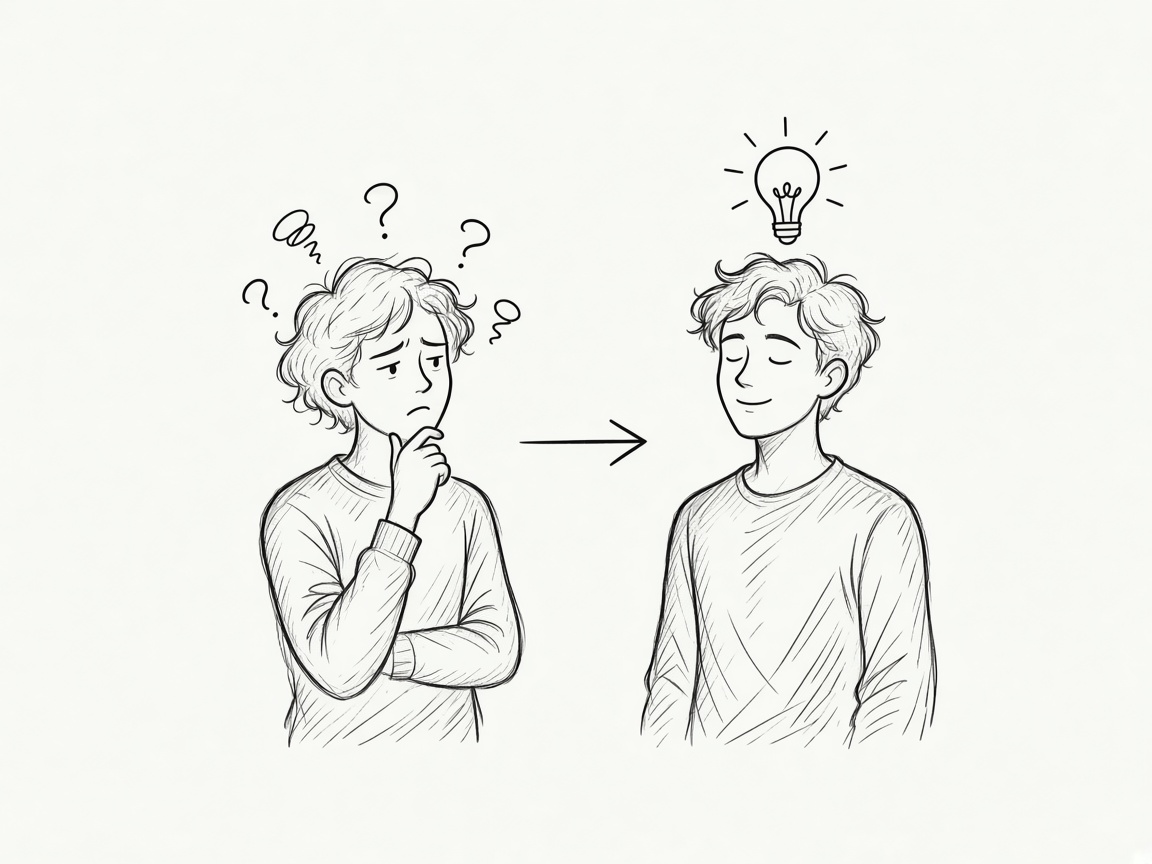
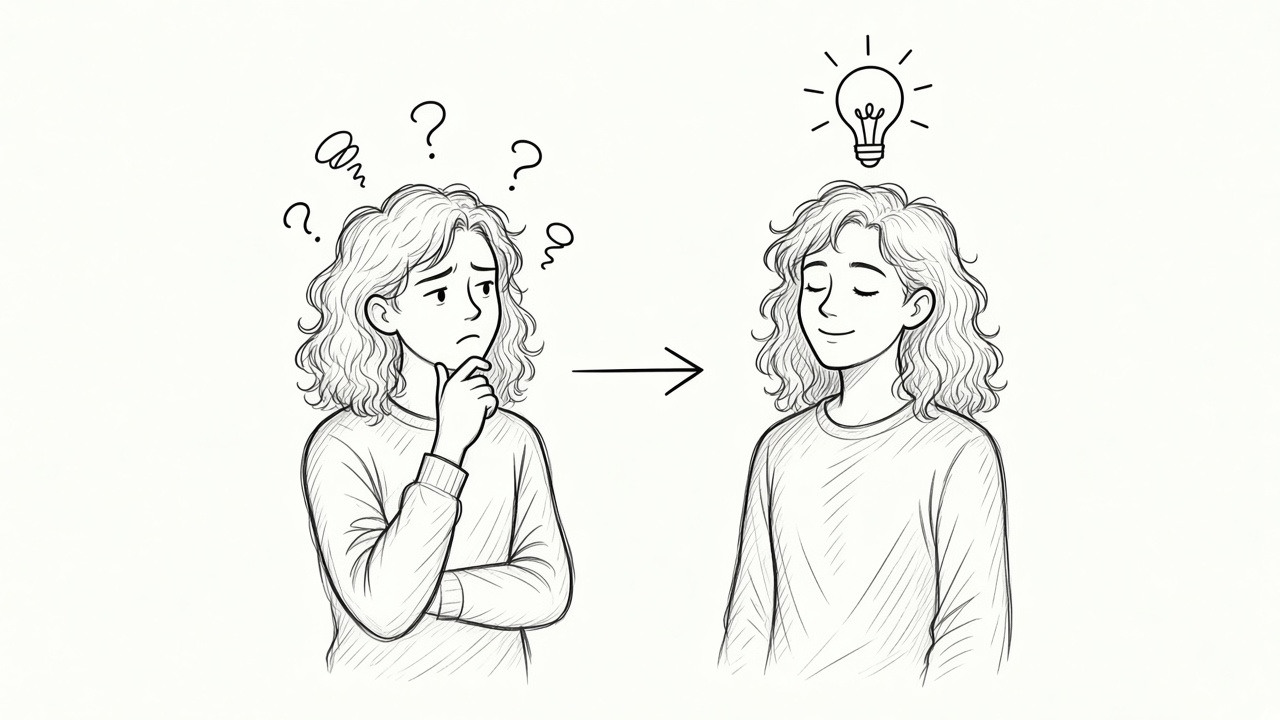
На кадре «не всегда» вместо мальчика нарисовал девочку.

Changed region(s): [[0.2188, 0.1222, 0.5625, 0.9167], [0.5625, 0.0917, 0.8125, 0.9472]]

diff --git a/shzo/slidy/index.html b/shzo/slidy/index.html
@@ -295,7 +295,7 @@ html,body{background:var(--paper);color:var(--ink);font-family:Figtree,system-ui
 <div class="logo"><svg viewBox="0 0 24 24" fill="none" stroke="#7A8C52" stroke-width="1.8"><path d="M12 21s-7-4.4-7-10a4 4 0 0 1 7-2.6A4 4 0 0 1 19 11c0 5.6-7 10-7 10z"/></svg><span>школа здоровых отношений</span></div>
 <div class="stack">
 <p class="caps" style="font-size:clamp(48px,10vw,72px)">Но так было<br><span class="y">не всегда</span></p>
-<img class="sketch" src="pic/sketch-notalways.png?v=4" alt="">
+<img class="sketch" src="pic/sketch-notalways.png?v=6" alt="">
 </div>
 </section>
 
